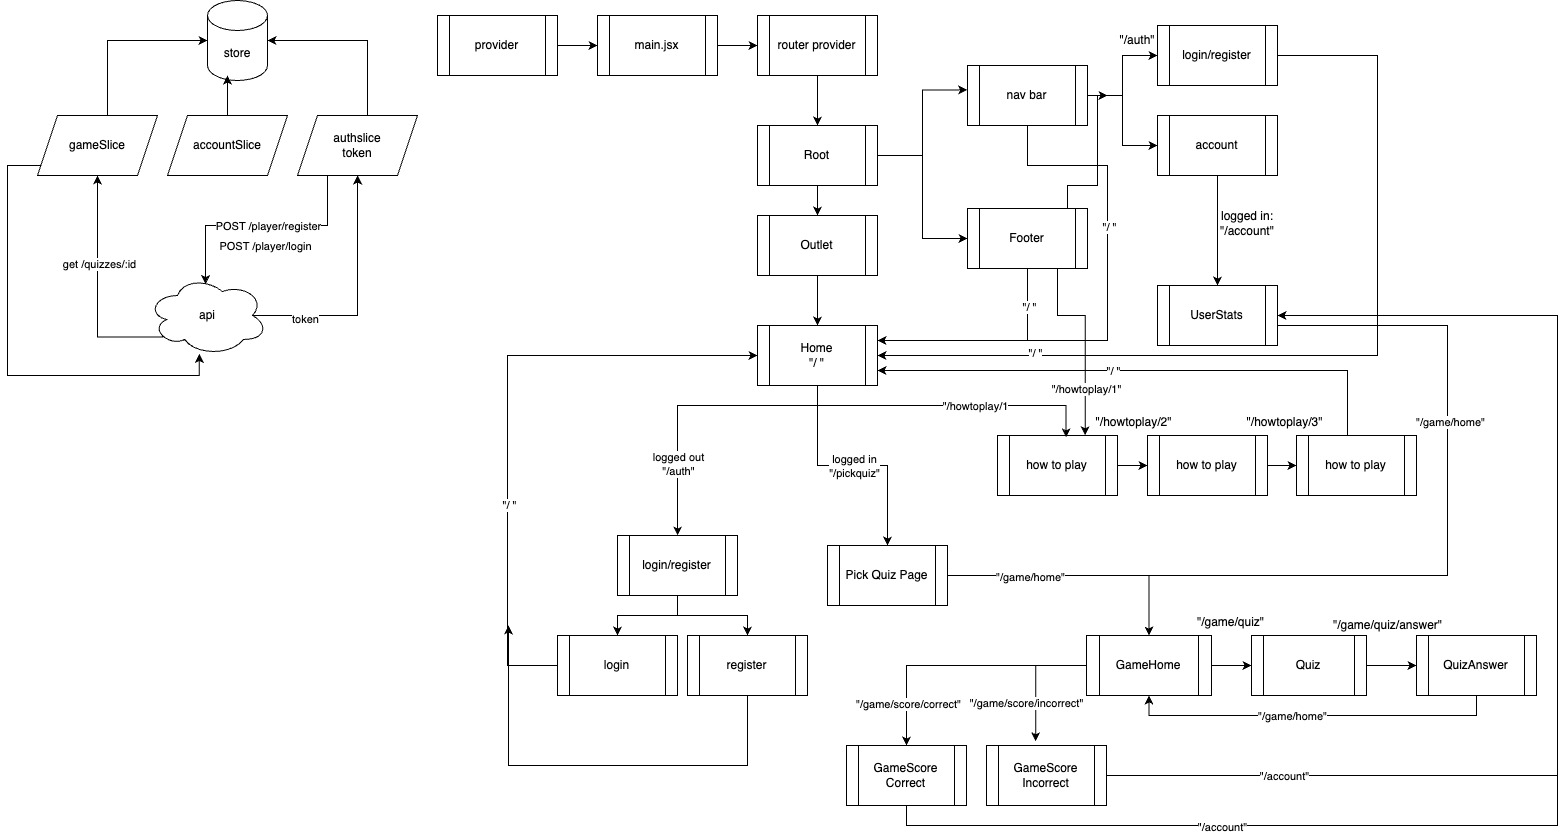
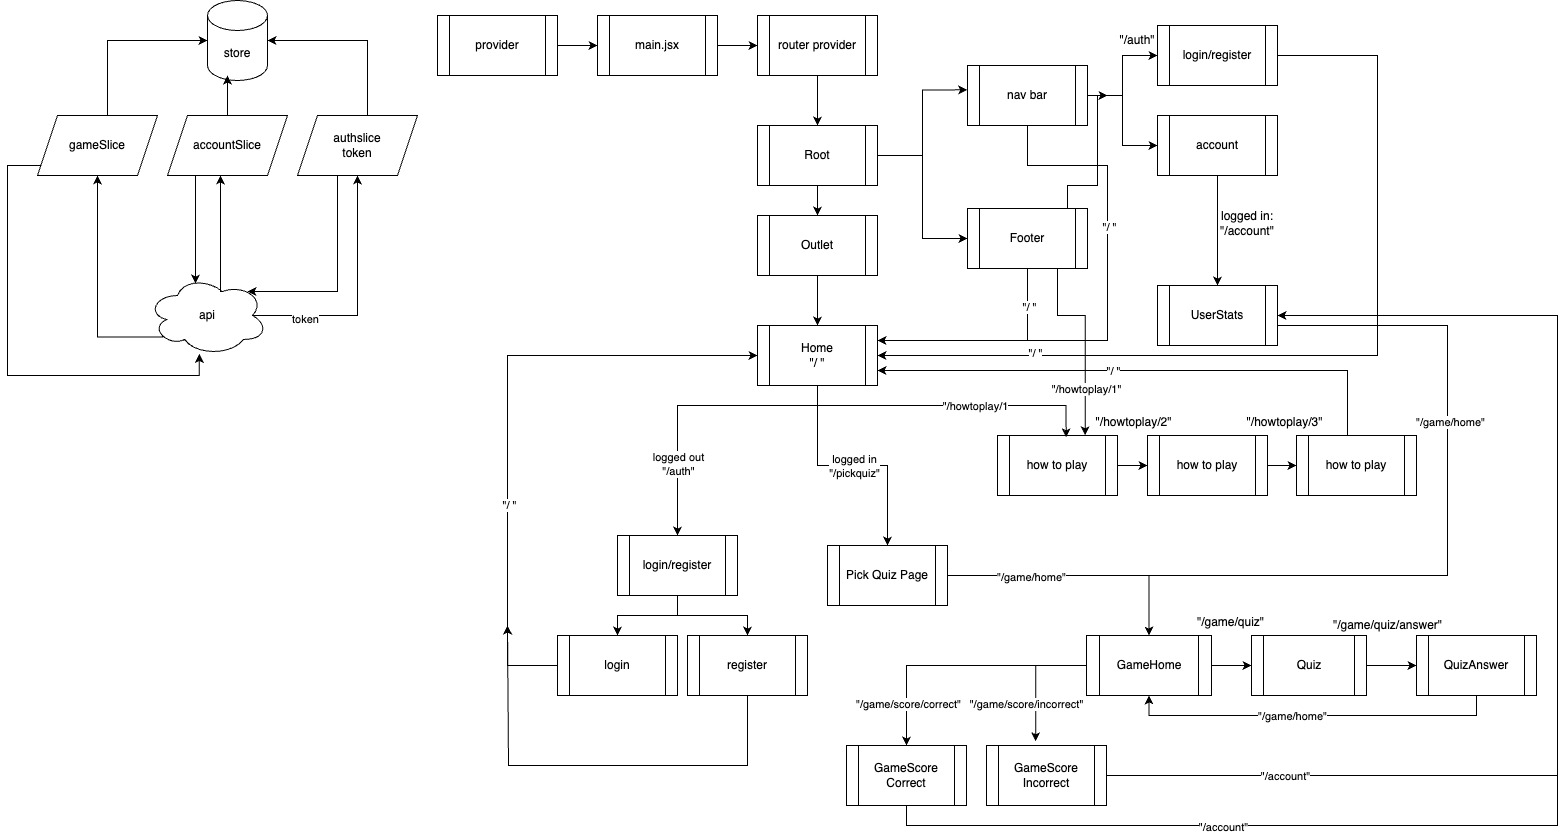
updated app outline and replaced it in sketches folder

diff --git a/src/client/layout/layout.css b/src/client/layout/layout.css
@@ -49,7 +49,8 @@
 }
 
 .footerNavElement,
-.footerLogin, .footerLoginElement {
+.footerLogin,
+.footerLoginElement {
   color: white;
   font-family: Arial, Helvetica, sans-serif;
   margin-top: 2rem;
